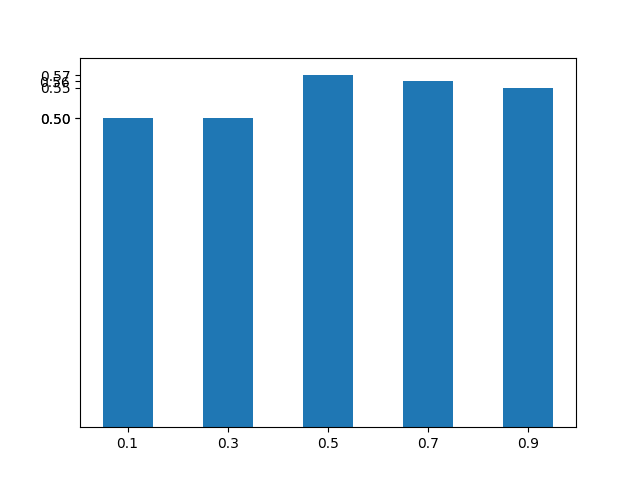
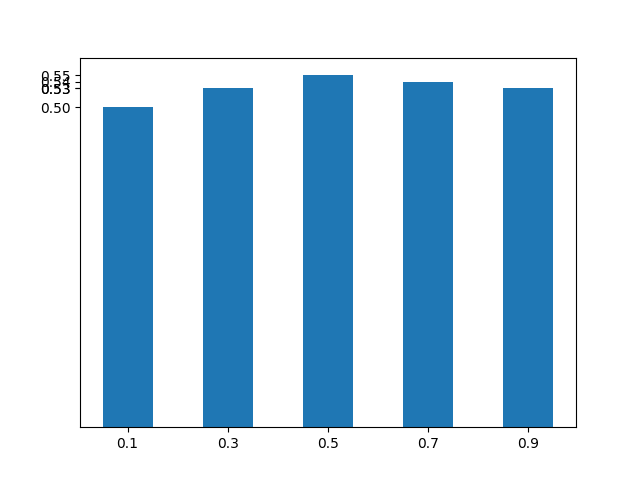
update posterior attack

Changed region(s): [[0.3125, 0.1562, 0.4062, 0.25], [0.0625, 0.1562, 0.125, 0.2812], [0.1562, 0.2188, 0.25, 0.25]]

diff --git a/Machine Learning in Privacy (Special Topics)/assignments/hw2/hw2/attacks.py b/Machine Learning in Privacy (Special Topics)/assignments/hw2/hw2/attacks.py
@@ -21,24 +21,24 @@ import scipy.stats as stats
 ## Note: also returns the full confusion matrix
 """
 def attack_performance(in_or_out_test, in_or_out_pred):
-    cm = metrics.confusion_matrix(in_or_out_test, in_or_out_pred)
-    accuracy = np.trace(cm) / np.sum(cm.ravel())
-    tn, fp, fn, tp = cm.ravel()
-    tpr = tp / (tp + fn)
-    fpr = fp / (fp + tn)
-    advantage = tpr - fpr
+        cm = metrics.confusion_matrix(in_or_out_test, in_or_out_pred)
+        accuracy = np.trace(cm) / np.sum(cm.ravel())
+        tn, fp, fn, tp = cm.ravel()
+        tpr = tp / (tp + fn)
+        fpr = fp / (fp + tn)
+        advantage = tpr - fpr
 
-    return accuracy, advantage, cm
+        return accuracy, advantage, cm
 
 """
 ## Extract a random subdataset of 'sz' records
 """
 def random_subdataset(x, y, sz):
-    assert x.shape[0] == y.shape[0]
-    perm = np.random.permutation(x.shape[0])
-    perm = perm[0:sz]
+        assert x.shape[0] == y.shape[0]
+        perm = np.random.permutation(x.shape[0])
+        perm = perm[0:sz]
 
-    return x[perm,:].copy(), y[perm,:].copy()
+        return x[perm,:].copy(), y[perm,:].copy()
 
 
 """
@@ -55,48 +55,53 @@ def random_subdataset(x, y, sz):
 ##  - attack_models: list of attack models, one per class.
 """
 def shokri_attack_models(x_aux, y_aux, target_train_size, create_model_fn, train_model_fn, num_shadow=4, attack_model_fn = lambda : LogisticRegression(solver='lbfgs')):
-    assert 2*target_train_size < x_aux.shape[0]
+        assert 2*target_train_size < x_aux.shape[0]
 
-    num_classes = y_aux.shape[1]
-    class_train_list = [None] * num_classes
+        num_classes = y_aux.shape[1]
+        class_train_list = [None] * num_classes
 
-    def add_to_list(data):
+        def add_to_list(data):
+                for label in range(0, num_classes):
+                        dv = data[data[:,-2] == label,:]
+                        col_idx = [i for i in range(0, num_classes)]
+                        col_idx.append(num_classes+1)
+                        if class_train_list[label] is None:
+                                class_train_list[label] = dv[:,col_idx]
+                        else:
+                                class_train_list[label] = np.vstack((class_train_list[label], dv[:,col_idx]))
+
+        for i in range(0, num_shadow):
+                shadow_n = create_model_fn()
+                x,y= random_subdataset(x_aux,y_aux,target_train_size) #get the sub dataset and turn shadow models 
+                trainData, testData = x[:target_train_size],x[target_train_size:]
+                trainLabels, testLabels = y[:target_train_size],y[target_train_size:]
+                #the classification of shadow models are added to the lists. 
+                shadowTrain = train_model_fn(shadow_n,trainData,trainLabels)
+                print("shokri attack train models: ", shadowTrain)
+                predictions = shadow_n.predict(testData)
+                # print(predictions)
+                in_or_out_pred = np.zeros((testData.shape[0],))
+                print("predictions is :", predictions)
+                print("test labels is :", testLabels)
+                print("in_or_out_pred is :", in_or_out_pred)
+                # data = np.stack((predictions,testLabels,in_or_out_pred),axis =-1)
+                # add_to_list(data)
+
+
+        # now train the models
+        attack_models = []
+
         for label in range(0, num_classes):
-            dv = data[data[:,-2] == label,:]
-            col_idx = [i for i in range(0, num_classes)]
-            col_idx.append(num_classes+1)
-            if class_train_list[label] is None:
-                class_train_list[label] = dv[:,col_idx]
-            else:
-                class_train_list[label] = np.vstack((class_train_list[label], dv[:,col_idx]))
+                data = class_train_list[label]
+                np.random.shuffle(data)
+                x_data = data[:,:-1]
+                y_data = data[:,-1]
+                # print(data)
+                # train attack model
+                am = attack_model_fn().fit(x_data, y_data)
+                attack_models.append(am)
 
-    for i in range(0, num_shadow):
-        shadow_n = create_model_fn()
-        x,y= random_subdataset(x_aux,y_aux,target_train_size) #get the sub dataset and turn shadow models 
-        trainData, testData = x[:target_train_size],x[target_train_size:]
-        trainLabels, testLabels = y[:target_train_size],y[target_train_size:]
-        #the classification of shadow models are added to the lists. 
-        shadowTrain = train_model_fn(shadow_n,trainData,trainLabels)
-        print("shokri attack train models: ", shadowTrain)
-        predictions = shadow_n.predict(testData)
-        # print(predictions)
-        add_to_list(predictions,testLabels)
-
-
-    # now train the models
-    attack_models = []
-
-    for label in range(0, num_classes):
-        data = class_train_list[label]
-        np.random.shuffle(data)
-        x_data = data[:,:-1]
-        y_data = data[:,-1]
-        # print(data)
-        # train attack model
-        am = attack_model_fn().fit(x_data, y_data)
-        attack_models.append(am)
-
-    return attack_models
+        return attack_models
 
 """
 ## Perform the Shokri et al. attack
@@ -110,23 +115,23 @@ def shokri_attack_models(x_aux, y_aux, target_train_size, create_model_fn, train
 """
 def do_shokri_attack(attack_models, x_targets, y_targets, query_target_model):
 
-    num_classes = y_targets.shape[1]
-    assert len(attack_models) == num_classes
-    y_targets_labels = np.argmax(y_targets, axis=-1)
+        num_classes = y_targets.shape[1]
+        assert len(attack_models) == num_classes
+        y_targets_labels = np.argmax(y_targets, axis=-1)
 
-    in_or_out_pred = np.zeros((x_targets.shape[0],))
+        in_or_out_pred = np.zeros((x_targets.shape[0],))
 
-    pv = query_target_model(x_targets)
-    assert pv.shape[0] == y_targets_labels.shape[0]
+        pv = query_target_model(x_targets)
+        assert pv.shape[0] == y_targets_labels.shape[0]
 
-    for i in range(0, pv.shape[0]):
-        label = y_targets_labels[i]
-        assert 0 <= label < num_classes
+        for i in range(0, pv.shape[0]):
+                label = y_targets_labels[i]
+                assert 0 <= label < num_classes
 
-        am = attack_models[label]
-        in_or_out_pred[i] = am.predict(pv[i,:].reshape(1,-1))
+                am = attack_models[label]
+                in_or_out_pred[i] = am.predict(pv[i,:].reshape(1,-1))
 
-    return in_or_out_pred
+        return in_or_out_pred
 
 
 """
@@ -140,19 +145,19 @@ def do_shokri_attack(attack_models, x_targets, y_targets, query_target_model):
 ##  - in_or_out_pred: in/out prediction for each target
 """
 def do_loss_attack(x_targets, y_targets, query_target_model, loss_fn, mean_train_loss, std_train_loss, mean_test_loss, std_test_loss):
-    pv = query_target_model(x_targets)
-    loss_vec = loss_fn(y_targets, pv)
+        pv = query_target_model(x_targets)
+        loss_vec = loss_fn(y_targets, pv)
 
-    in_or_out_pred = np.zeros((x_targets.shape[0],))
+        in_or_out_pred = np.zeros((x_targets.shape[0],))
 
-    gauss_train = stats.norm(mean_train_loss, std_train_loss).pdf(loss_vec)
-    gauss_test = stats.norm(mean_test_loss, std_test_loss).pdf(loss_vec)
-    
-    # in_or_out_pred = np.where(np.absolute(loss_vec - mean_train_loss)< np.absolute(loss_vec - mean_test_loss), 1, 0)
-    
-    in_or_out_pred = np.where(gauss_train > gauss_test, 1, 0)
+        gauss_train = stats.norm(mean_train_loss, std_train_loss).pdf(loss_vec)
+        gauss_test = stats.norm(mean_test_loss, std_test_loss).pdf(loss_vec)
+        
+        # in_or_out_pred = np.where(np.absolute(loss_vec - mean_train_loss)< np.absolute(loss_vec - mean_test_loss), 1, 0)
+        
+        in_or_out_pred = np.where(gauss_train > gauss_test, 1, 0)
 
-    return in_or_out_pred
+        return in_or_out_pred
 
 
 """
@@ -168,17 +173,17 @@ def do_loss_attack(x_targets, y_targets, query_target_model, loss_fn, mean_train
 ##  - in_or_out_pred: in/out prediction for each target
 """
 def do_loss_attack2(x_targets, y_targets, query_target_model, loss_fn, mean_train_loss, std_train_loss, threshold):
-    pv = query_target_model(x_targets)
-    loss_vec = loss_fn(y_targets, pv)
+        pv = query_target_model(x_targets)
+        loss_vec = loss_fn(y_targets, pv)
 
-    in_or_out_pred = np.zeros((x_targets.shape[0],))
+        in_or_out_pred = np.zeros((x_targets.shape[0],))
 
-    gauss_cdf = stats.norm(mean_train_loss, std_train_loss).cdf(loss_vec)
+        gauss_cdf = stats.norm(mean_train_loss, std_train_loss).cdf(loss_vec)
 
-    in_or_out_pred = np.where( gauss_cdf < threshold, 1, 0)
-    
+        in_or_out_pred = np.where( gauss_cdf < threshold, 1, 0)
+        
 
-    return in_or_out_pred
+        return in_or_out_pred
 
 
 """
@@ -193,15 +198,23 @@ def do_loss_attack2(x_targets, y_targets, query_target_model, loss_fn, mean_trai
 """
 def do_posterior_attack(x_targets, y_targets, query_target_model, threshold):
 
-    ## TODO ##
-    ## Insert your code here
-    pv = query_target_model(x_targets)
-    # loss_vec = loss_fn(y_targets, pv)
-    print(pv)
-    in_or_out_pred = np.zeros((x_targets.shape[0],))
+        ## TODO ##
+        ## Insert your code here
+        pv = query_target_model(x_targets)
+        posterior=[]
 
-    print(x_targets)
-    print(y_targets)
-   
+        in_or_out_pred = np.zeros((x_targets.shape[0],))
+        idx = np.where(y_targets == 1)
+        listofcoordinates = list(zip(idx[0],idx[1]))
+        # print(listofcoordinates)
+        # print(x_targets)
+        # print(y_targets)
+        sumValue = np.sum(pv,axis = 0)
+        for item in listofcoordinates:
+            # print(pv[item[0]][item[1]])
+            # print(sumValue[item[1]])
+            posterior.append(pv[item[0]][item[1]]/sumValue[item[1]])
+        # print("posteriror is :", posterior)
+        in_or_out_pred = np.where(posterior< threshold,1,0)
+        return in_or_out_pred
 
-    return in_or_out_pred

diff --git a/Machine Learning in Privacy (Special Topics)/assignments/hw2/hw2/hw2.py b/Machine Learning in Privacy (Special Topics)/assignments/hw2/hw2/hw2.py
@@ -339,6 +339,12 @@ def main():
         
         plt.savefig('Lossattack2_threshold.png')
 
+        #posterior attack
+        in_or_out_pred_post = attacks.do_posterior_attack(x_targets, y_targets, query_target_model, threshold)
+        accuracy, advantage, _ = attacks.attack_performance(in_or_out_targets, in_or_out_pred_post)
+
+        print('posterior attack accuracy, advantage: {:.1f}%, {:.2f}'.format(100.0*accuracy, advantage))
+
     elif probno == 4:  ## problem 4
 
         ## TODO ##
